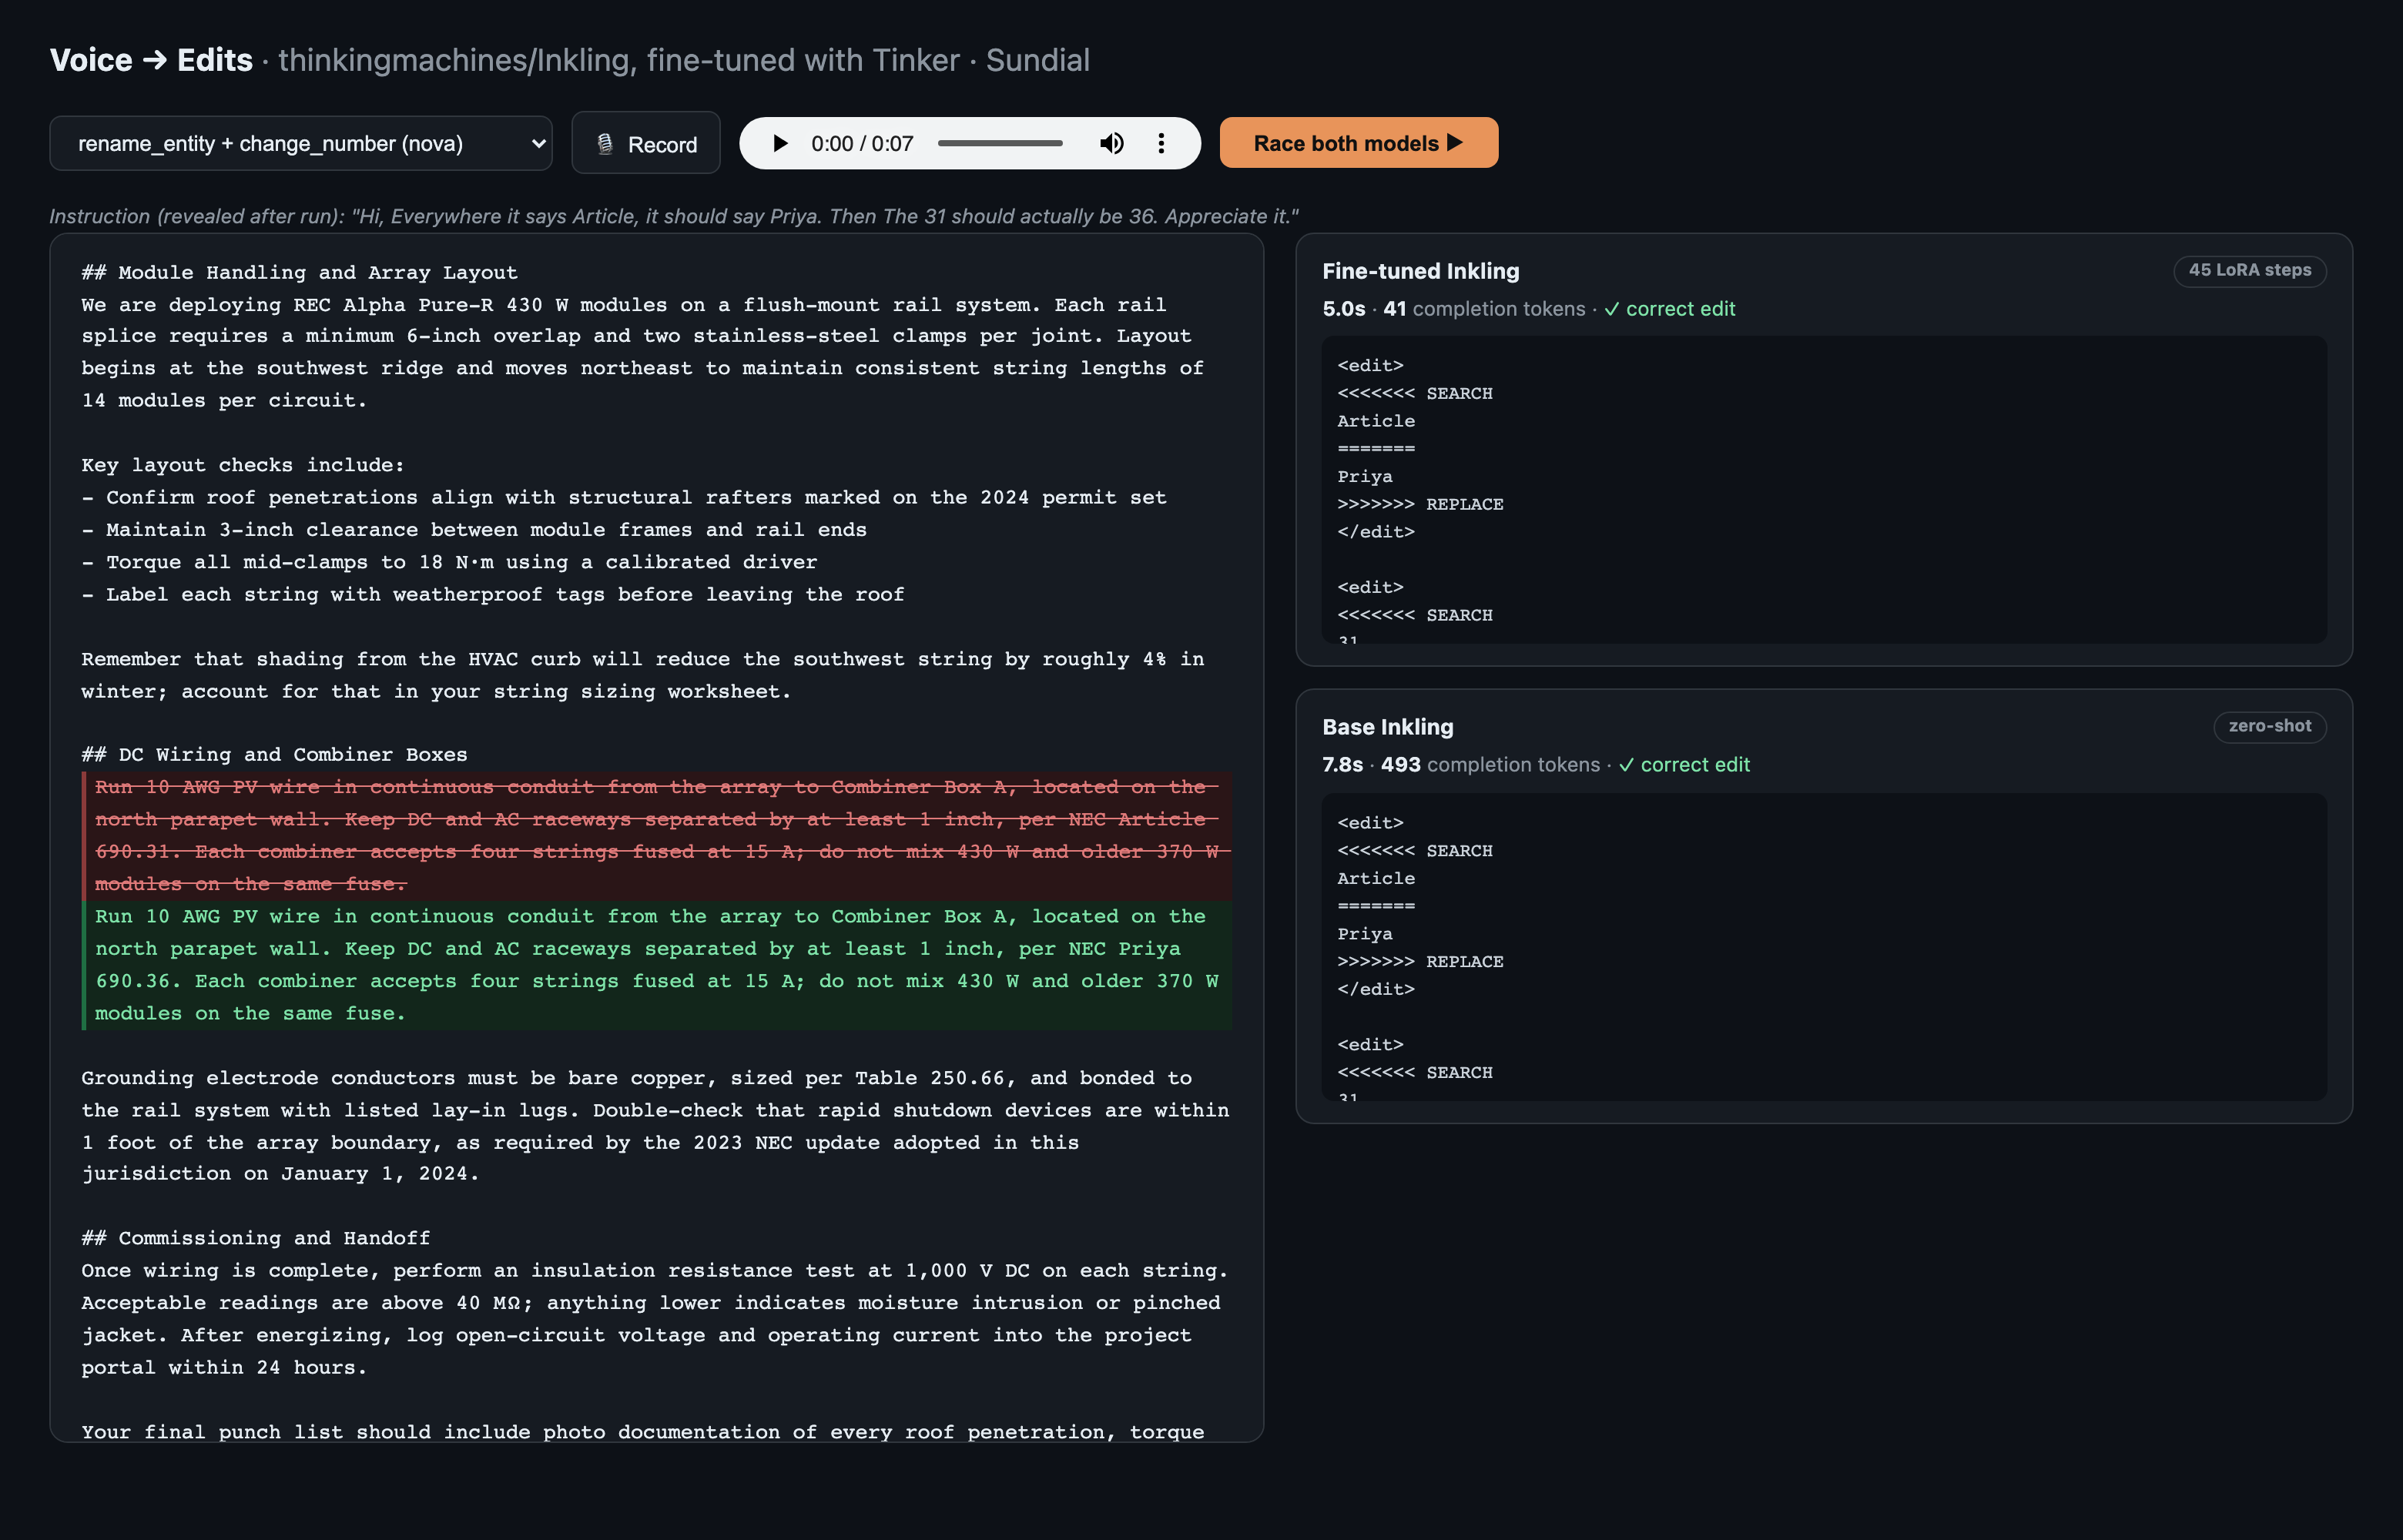
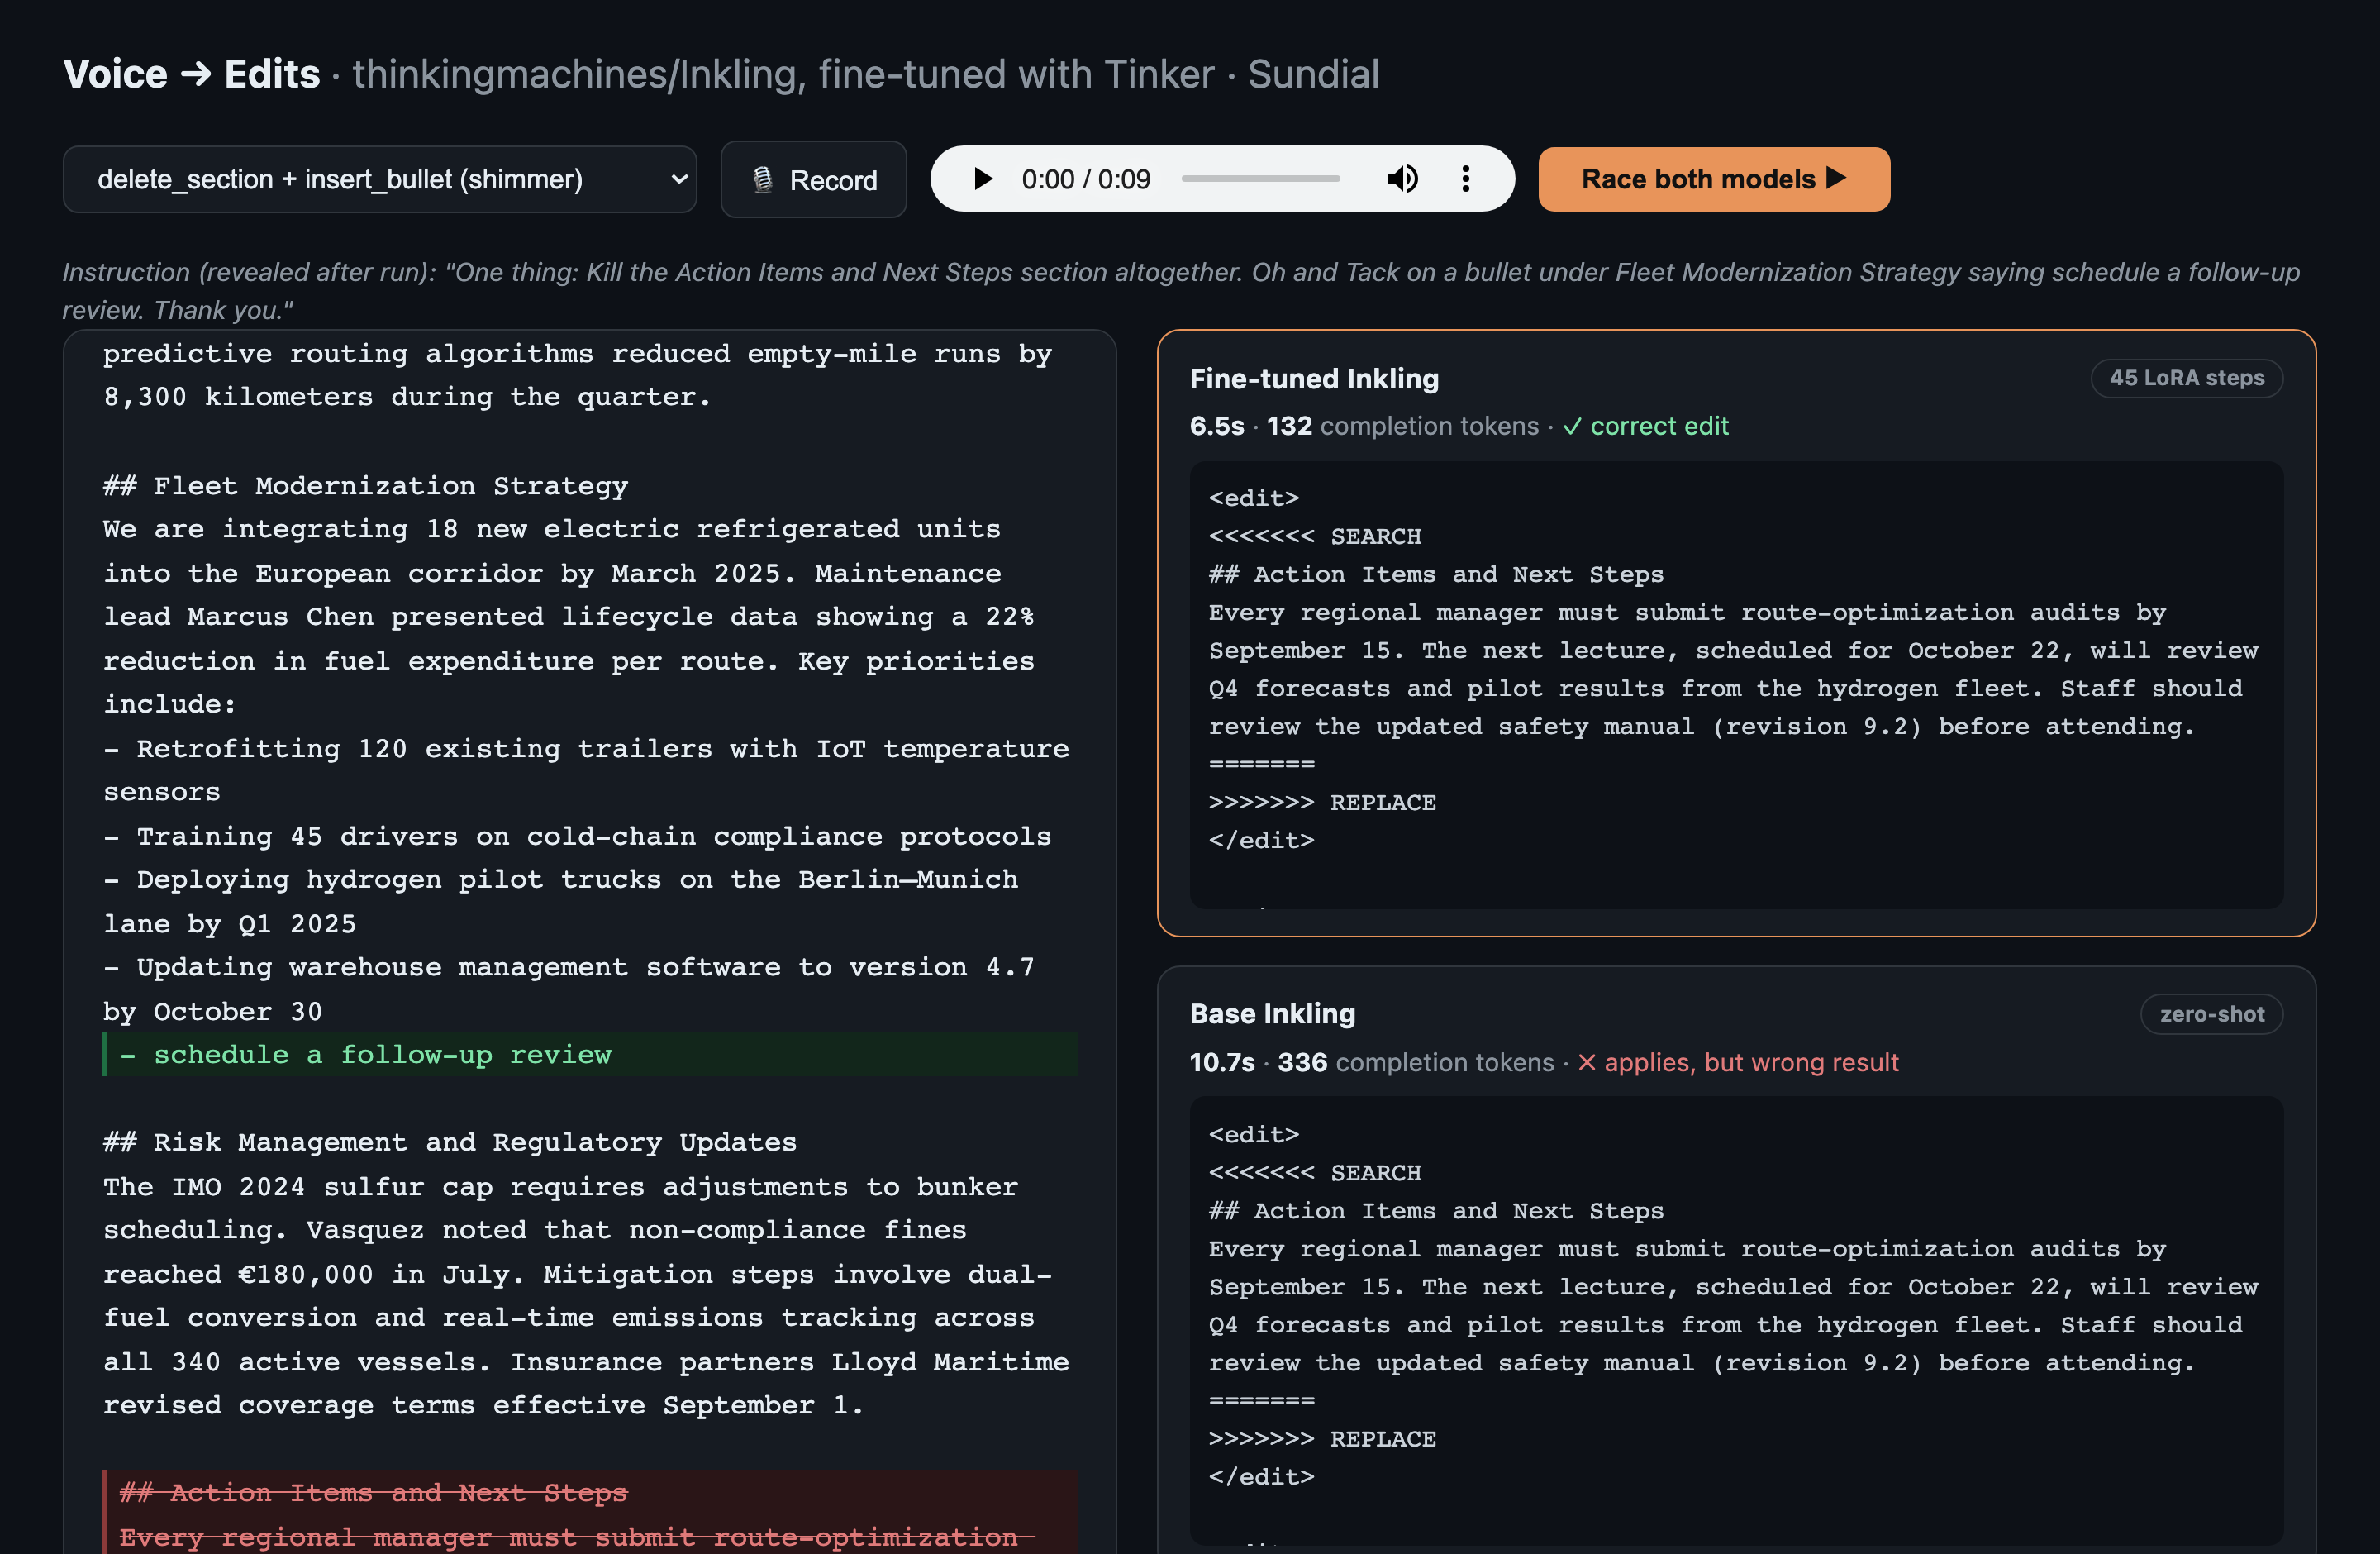
Better demo screenshot: base-fail sample, zoomed layout
Reorder samples so reliable base-fail cases come first; bump demo font
sizes for readability.

diff --git a/demo/index.html b/demo/index.html
@@ -7,7 +7,7 @@
 :root{--bg:#0d1117;--panel:#161b22;--border:#30363d;--fg:#e6edf3;--dim:#8b949e;
 --accent:#e8945a;--green:#1f6f43;--greenbg:#12261b;--red:#8b3a3a;--redbg:#2a1517}
 *{box-sizing:border-box;margin:0}
-body{background:var(--bg);color:var(--fg);font:15px/1.5 -apple-system,'SF Pro Text',sans-serif;padding:24px 32px}
+body{background:var(--bg);color:var(--fg);font:16px/1.5 -apple-system,'SF Pro Text',sans-serif;padding:24px 32px}
 h1{font-size:20px;font-weight:650;letter-spacing:-.2px}
 h1 .dim{color:var(--dim);font-weight:400}
 #bar{display:flex;gap:12px;align-items:center;margin:18px 0}
@@ -21,7 +21,7 @@ button:hover{border-color:var(--dim)}
 #main{display:grid;grid-template-columns:1.15fr 1fr;gap:20px}
 .panel{background:var(--panel);border:1px solid var(--border);border-radius:12px;padding:18px 20px;overflow:auto}
 .panel h3{font-size:12px;text-transform:uppercase;letter-spacing:1px;color:var(--dim);margin-bottom:10px}
-#doc{white-space:pre-wrap;font:13.5px/1.55 ui-monospace,'SF Mono',monospace;max-height:72vh}
+#doc{white-space:pre-wrap;font:14.5px/1.55 ui-monospace,'SF Mono',monospace;max-height:72vh}
 #doc .add{background:var(--greenbg);color:#7ee2a8;display:block;border-left:3px solid var(--green);padding-left:6px}
 #doc .del{background:var(--redbg);color:#e07a7a;display:block;border-left:3px solid var(--red);padding-left:6px;text-decoration:line-through}
 .card{border:1px solid var(--border);border-radius:12px;padding:14px 16px;margin-bottom:14px;background:var(--panel)}
@@ -29,8 +29,8 @@ button:hover{border-color:var(--dim)}
 .card h4{font-size:14px;display:flex;justify-content:space-between}
 .card .stats{color:var(--dim);font-size:13px;margin:4px 0 8px}
 .card .stats b{color:var(--fg)}
-.card pre{font:12px/1.5 ui-monospace,monospace;white-space:pre-wrap;color:#c9d1d9;
-background:#0d1117;border-radius:8px;padding:10px;max-height:200px;overflow:auto}
+.card pre{font:13px/1.5 ui-monospace,monospace;white-space:pre-wrap;color:#c9d1d9;
+background:#0d1117;border-radius:8px;padding:10px;max-height:230px;overflow:auto}
 .card .err{color:#e07a7a}
 .spin{color:var(--accent)}
 .badge{font-size:11px;border:1px solid var(--border);border-radius:20px;padding:1px 9px;color:var(--dim)}